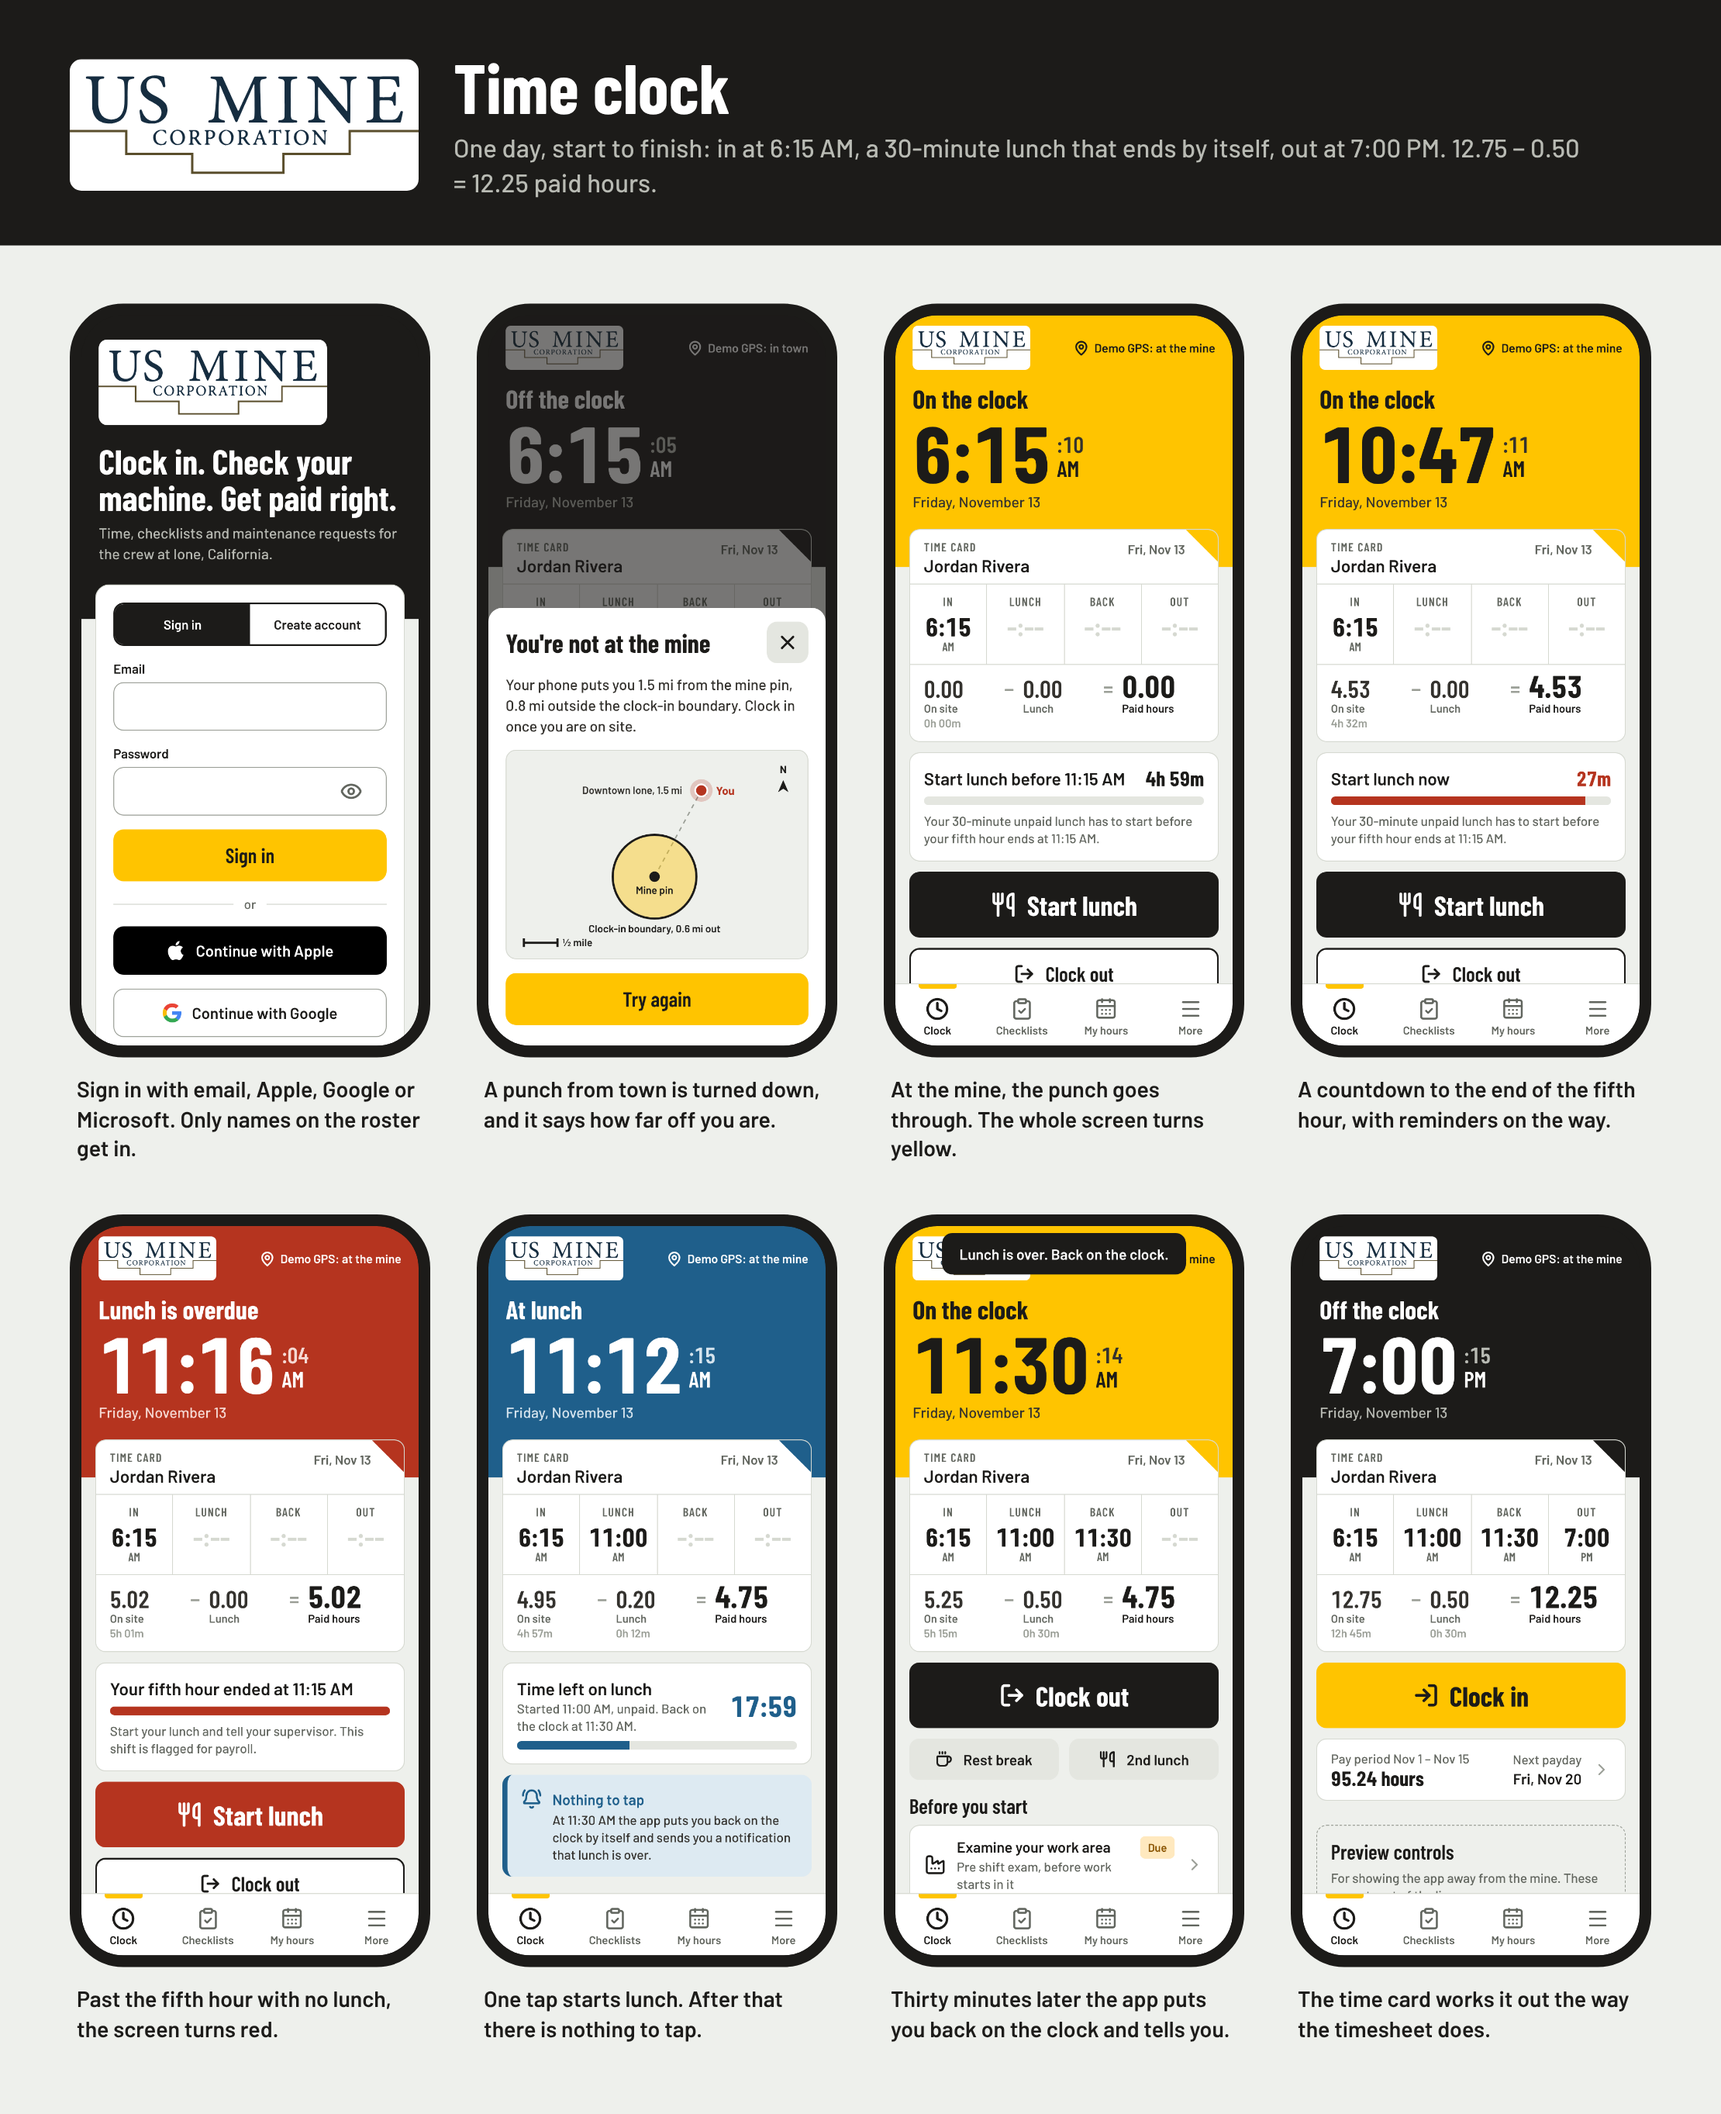
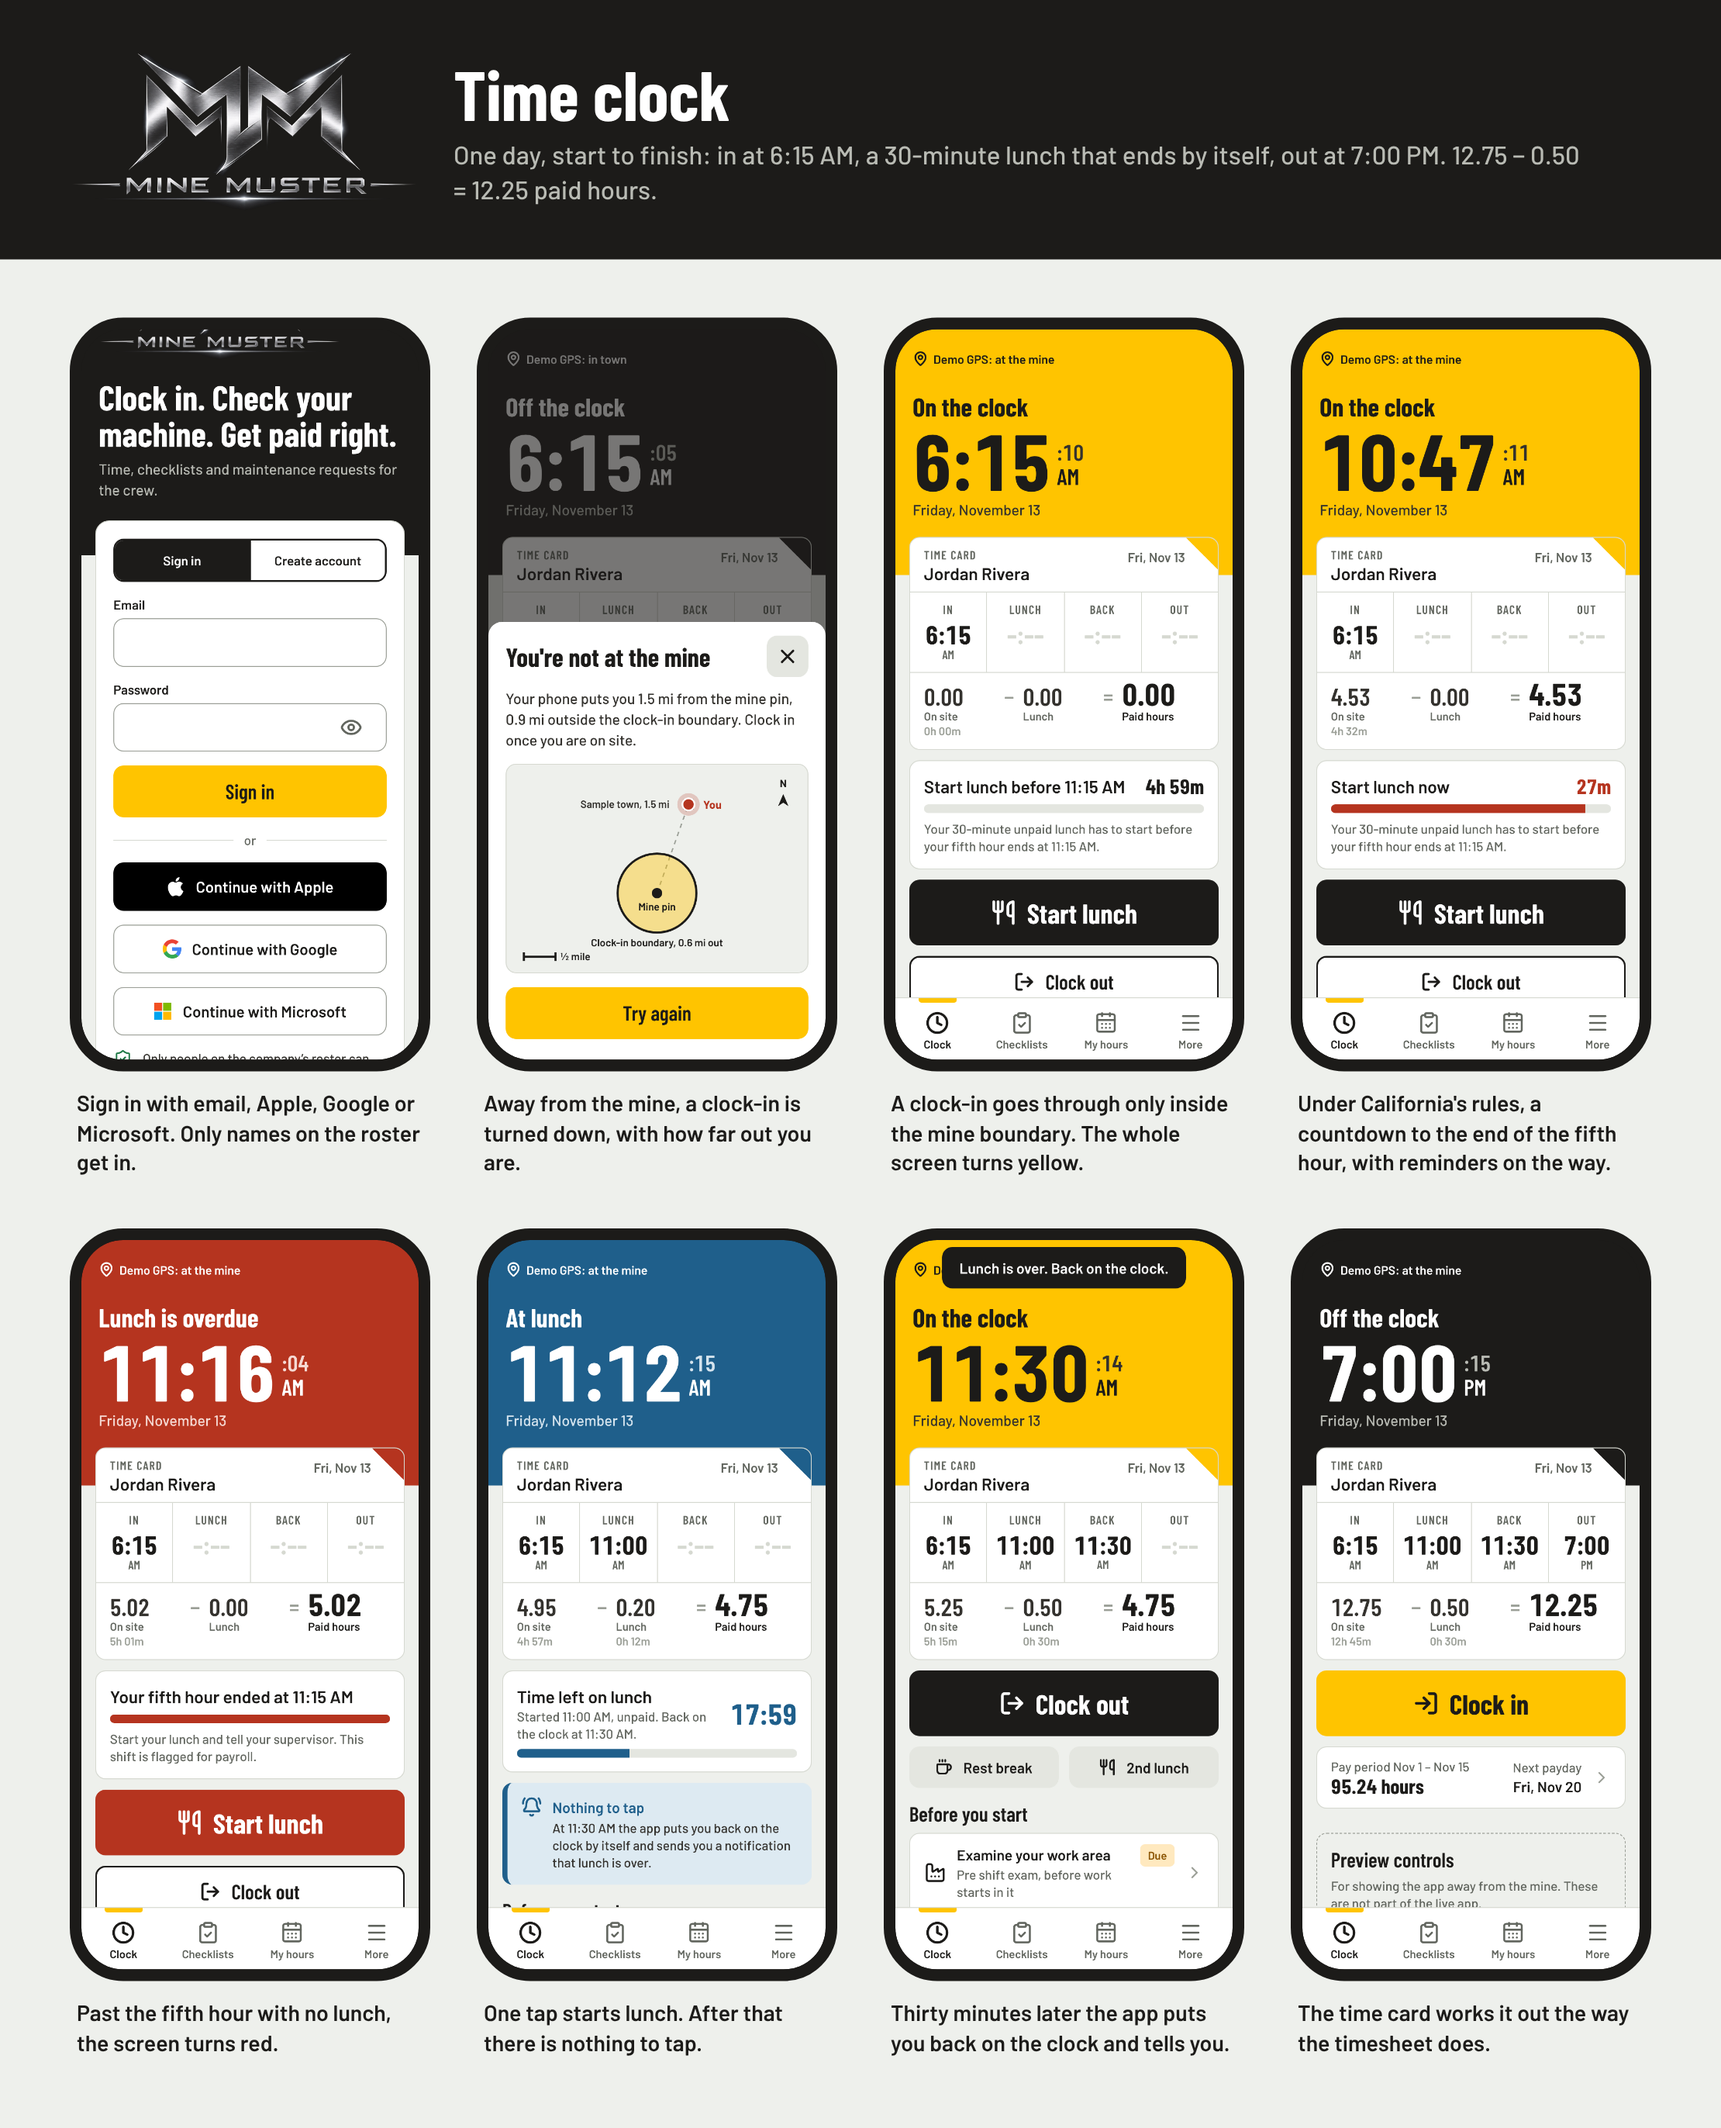
Retake the README gallery and show the new features
Every gallery shot is retaken on the public build. The sign-in shot is
scrolled so all three sign-in buttons are in the frame, and the clock-in
turned down away from the mine is back, now at the made-up sample site.
A new sheet shows the no-signal strip, where the records stand, the PDF
for an MSHA inspector, a payroll ID and the payroll hours file, the
earning codes, and the safety forms without the time clock. The first
page of the sample inspector PDF is shown under the Excel exports.

Claude-Session: https://claude.ai/code/session_01MhXJqZUCsKLR1n6LyrfcZn

diff --git a/README.md b/README.md
@@ -6,7 +6,7 @@ Any mine can use it. Each company sets its own name, the state whose hours rules
 
 It replaces the paper time sheet, the Operator Equipment Checklist card, the Pre Shift Exam sheets and the Maintenance Request form, and it does the hours math so nobody has to.
 
-![Time clock: sign in, GPS check, lunch countdown, and the day worked out as 12.75 − 0.50 = 12.25](docs/gallery-time-clock.png)
+![Time clock: sign in, a clock-in turned down away from the mine, the GPS check, lunch countdown, and the day worked out as 12.75 − 0.50 = 12.25](docs/gallery-time-clock.png)
 
 ![Pay periods: hours and next payday on the clock screen, the period split into straight time, overtime and double time, the pay estimate, a moved payday, crew payroll and paid leave](docs/gallery-pay-period.png)
 
@@ -16,11 +16,15 @@ It replaces the paper time sheet, the Operator Equipment Checklist card, the Pre
 
 ![Supervisor screens: crew board, who is on site, time log, corrections, safety log, maintenance requests, roster and the company settings](docs/gallery-supervisor.png)
 
+![In the pit and in the office: the no-signal strip, where the records stand, the PDF for an MSHA inspector, a payroll ID, the payroll hours file, the earning codes, and the safety forms without the time clock](docs/gallery-field-and-office.png)
+
 The Excel exports look like this ([payroll sample](docs/samples/Sample-Mining-Co-Payroll_sample.xlsx), [safety log sample](docs/samples/Sample-Mining-Co-Safety-Log_sample.xlsx)). The PDF for an inspector is made from the same records ([sample](docs/samples/Sample-Mining-Co-MSHA-Records_sample.pdf)):
 
 ![Payroll summary sheet in Excel: straight time, overtime, double time, holiday, PTO and sick hours by employee for the pay period](docs/excel-payroll.png)
 
 ![Safety log in Excel: each unit on a card as a row with the 21 lines of the checklist as columns, and the conditions found on pre shift exams with the date fixed](docs/excel-safety-log.png)
+
+![The first page of the PDF for an MSHA inspector: the equipment defects affecting safety with when each was corrected, then the pre-use equipment inspections, each signed with its date and time](docs/inspector-pdf.png)
 
 ## What it does
 
